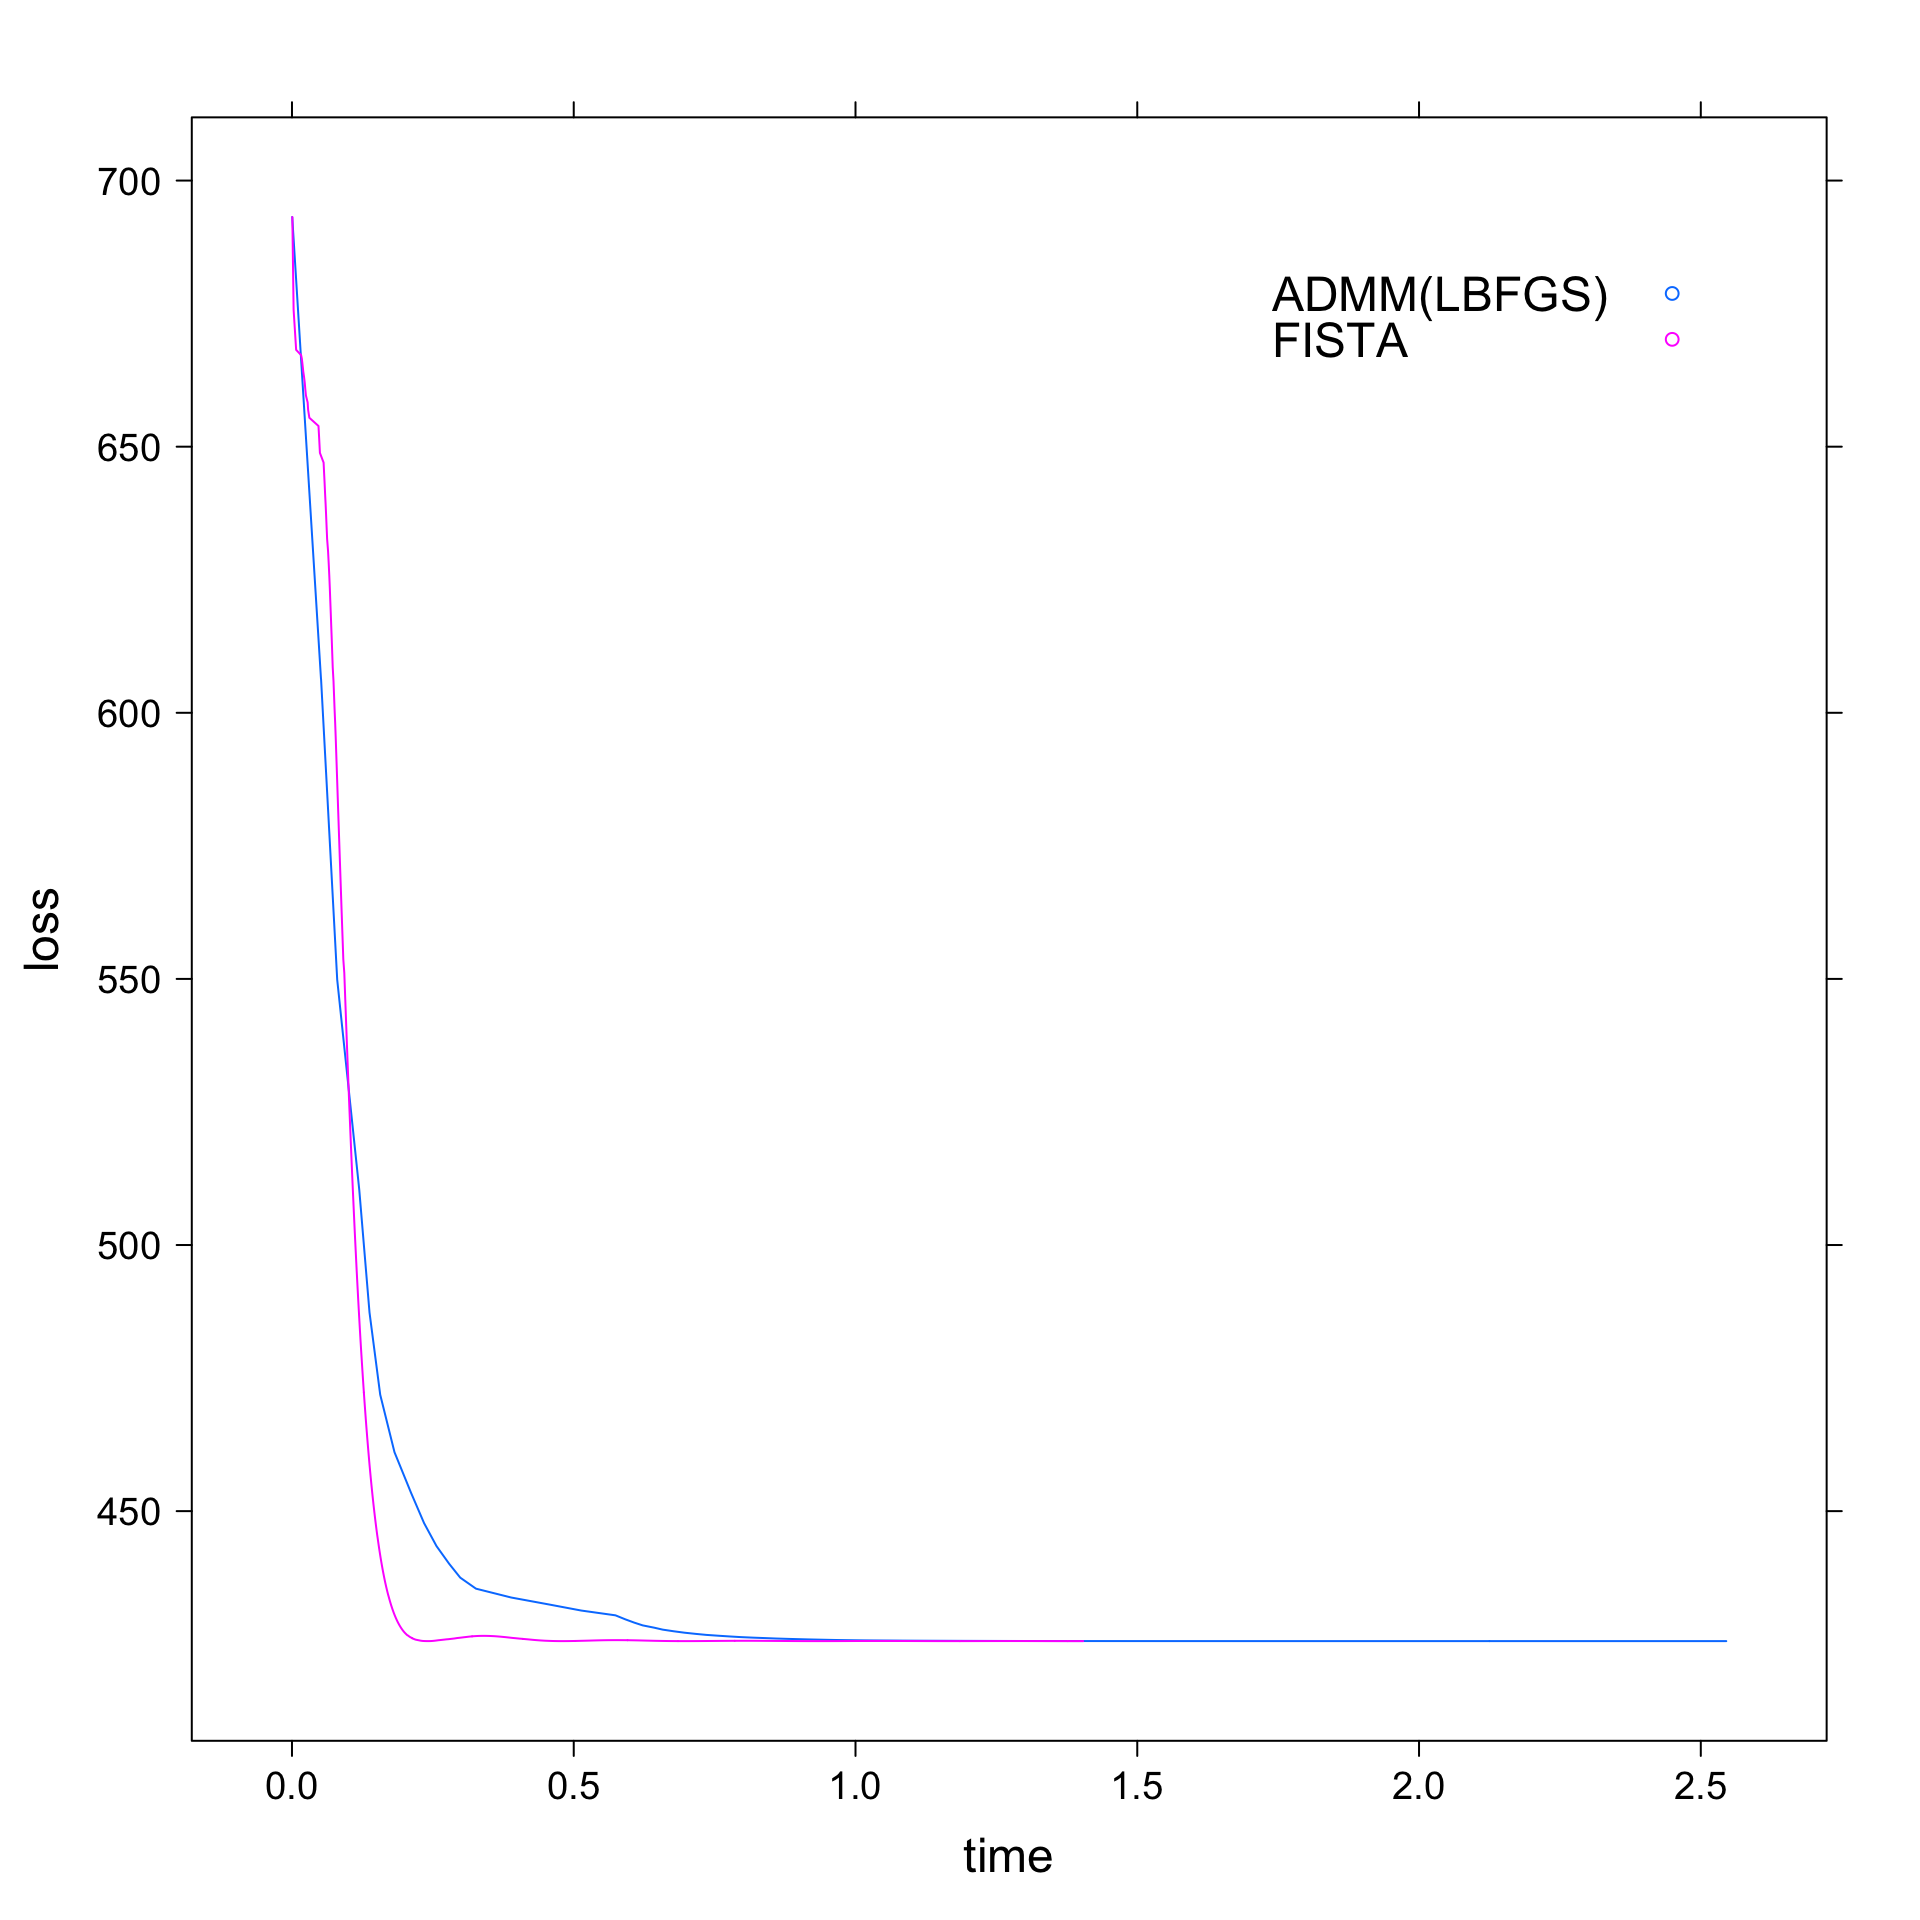
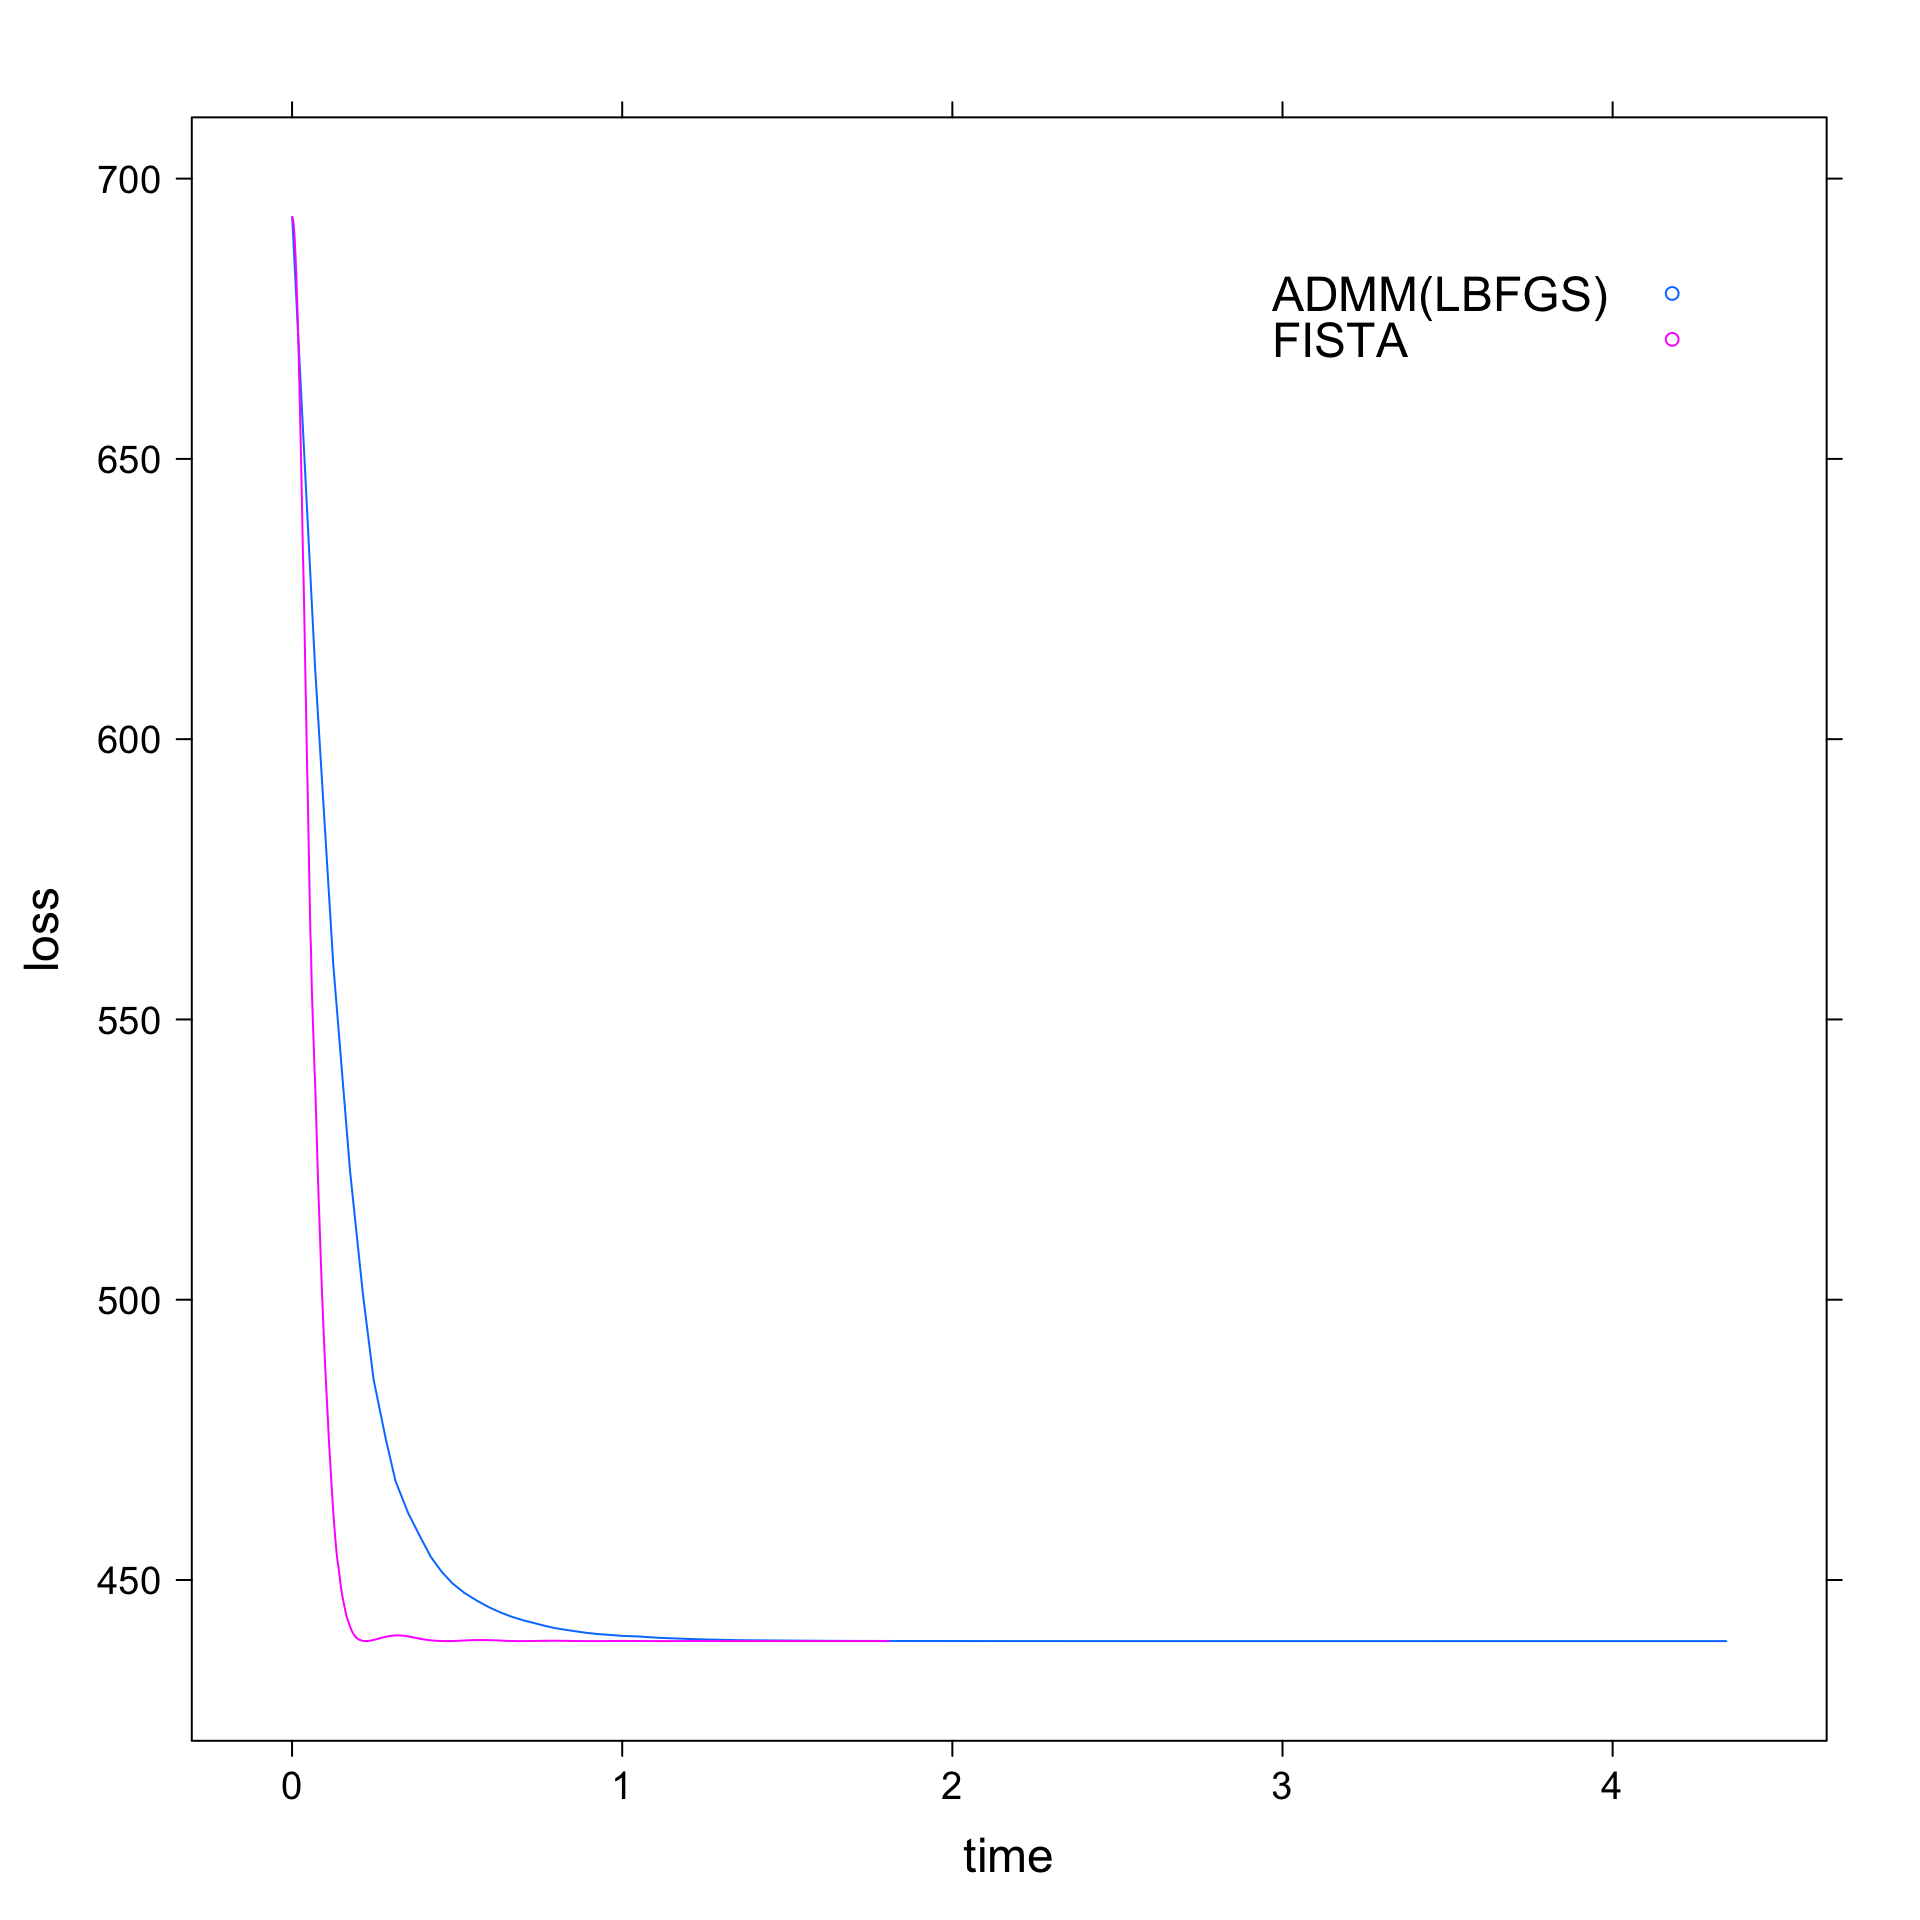
Built site for solvers: 1.0@b387340

diff --git a/404.html b/404.html
@@ -18,8 +18,8 @@
 <script src="https://cdnjs.cloudflare.com/ajax/libs/twitter-bootstrap/3.4.1/js/bootstrap.min.js" integrity="sha256-nuL8/2cJ5NDSSwnKD8VqreErSWHtnEP9E7AySL+1ev4=" crossorigin="anonymous"></script>
 
 <!-- bootstrap-toc -->
-<link rel="stylesheet" href="bootstrap-toc.css">
-<script src="bootstrap-toc.js"></script>
+<link rel="stylesheet" href="https://straw-boy.github.io/solvers//bootstrap-toc.css">
+<script src="https://straw-boy.github.io/solvers//bootstrap-toc.js"></script>
 
 <!-- Font Awesome icons -->
 <link rel="stylesheet" href="https://cdnjs.cloudflare.com/ajax/libs/font-awesome/5.12.1/css/all.min.css" integrity="sha256-mmgLkCYLUQbXn0B1SRqzHar6dCnv9oZFPEC1g1cwlkk=" crossorigin="anonymous" />
@@ -33,8 +33,8 @@
 <script src="https://cdnjs.cloudflare.com/ajax/libs/headroom/0.11.0/jQuery.headroom.min.js" integrity="sha256-ZX/yNShbjqsohH1k95liqY9Gd8uOiE1S4vZc+9KQ1K4=" crossorigin="anonymous"></script>
 
 <!-- pkgdown -->
-<link href="pkgdown.css" rel="stylesheet">
-<script src="pkgdown.js"></script>
+<link href="https://straw-boy.github.io/solvers//pkgdown.css" rel="stylesheet">
+<script src="https://straw-boy.github.io/solvers//pkgdown.js"></script>
 
 
 
@@ -70,7 +70,7 @@
         <span class="icon-bar"></span>
       </button>
       <span class="navbar-brand">
-        <a class="navbar-link" href="index.html">solvers</a>
+        <a class="navbar-link" href="https://straw-boy.github.io/solvers//index.html">solvers</a>
         <span class="version label label-default" data-toggle="tooltip" data-placement="bottom" title="Released version">1.0</span>
       </span>
     </div>

diff --git a/reference/index.html b/reference/index.html
@@ -131,40 +131,12 @@
     <tbody>
       <tr>
         <th colspan="2">
-          <h2 id="section-all-functions" class="hasAnchor"><a href="#section-all-functions" class="anchor"></a>All functions</h2>
-          <p class="section-desc"></p>
+          <h2 id="section-main-functionality" class="hasAnchor"><a href="#section-main-functionality" class="anchor"></a>Main Functionality</h2>
+          <p class="section-desc"><p>Fit the model with <code>SLOPE()</code>, visualize the results with <code>plot.SLOPE()</code>, and produce predictions for new data with <code>predict.SLOPE()</code>.</p></p>
         </th>
       </tr>
       
       
-    </tbody><tbody>
-      
-      
-      <tr>
-        
-        <td>
-          <p><code><a href="ADMM.html">ADMM()</a></code> </p>
-        </td>
-        <td><p>ADMM</p></td>
-      </tr><tr>
-        
-        <td>
-          <p><code><a href="FISTA.html">FISTA()</a></code> </p>
-        </td>
-        <td><p>FISTA</p></td>
-      </tr><tr>
-        
-        <td>
-          <p><code><a href="mergeFits.html">mergeFits()</a></code> </p>
-        </td>
-        <td><p>FISTA</p></td>
-      </tr><tr>
-        
-        <td>
-          <p><code><a href="randomProblem.html">randomProblem()</a></code> </p>
-        </td>
-        <td><p>Code borrowed from SLOPE package for generating datasets</p></td>
-      </tr>
     </tbody>
     </table>
   </div>

diff --git a/articles/compare_opt_algo.html b/articles/compare_opt_algo.html
@@ -110,9 +110,9 @@
 <div class="sourceCode" id="cb4"><pre class="downlit">
 <span class="co"># Comparing total execution time</span>
 <span class="fu"><a href="https://rdrr.io/r/base/print.html">print</a></span>(<span class="kw">admm_nr</span><span class="op">$</span><span class="kw">total_time</span>)
-<span class="co">#&gt; [1] 0.789395</span>
+<span class="co">#&gt; [1] 0.7730084</span>
 <span class="fu"><a href="https://rdrr.io/r/base/print.html">print</a></span>(<span class="kw">admm_bfgs</span><span class="op">$</span><span class="kw">total_time</span>)
-<span class="co">#&gt; [1] 2.944978</span>
+<span class="co">#&gt; [1] 2.907861</span>
 </pre></div>
 <p>Now, these fits cannot be directly used to plot as they contain a lot of parameter so we’ll call a utility function that merges the relevant parameter and returns a dataframe.</p>
 <div class="sourceCode" id="cb5"><pre class="downlit">

diff --git a/articles/compare-fista-admm.html b/articles/compare-fista-admm.html
@@ -111,9 +111,9 @@
 <div class="sourceCode" id="cb4"><pre class="downlit">
 <span class="co"># Comparing total execution time</span>
 <span class="fu"><a href="https://rdrr.io/r/base/print.html">print</a></span>(<span class="kw">fista_fit</span><span class="op">$</span><span class="kw">total_time</span>)
-<span class="co">#&gt; [1] 1.405529</span>
+<span class="co">#&gt; [1] 1.808687</span>
 <span class="fu"><a href="https://rdrr.io/r/base/print.html">print</a></span>(<span class="kw">admm_fit</span><span class="op">$</span><span class="kw">total_time</span>)
-<span class="co">#&gt; [1] 2.565716</span>
+<span class="co">#&gt; [1] 4.38977</span>
 </pre></div>
 <p>Now, these fits cannot be directly used to plot as they contain a lot of parameter so we’ll call a utility function that merges the relevant parameter and returns a dataframe.</p>
 <div class="sourceCode" id="cb5"><pre class="downlit">
